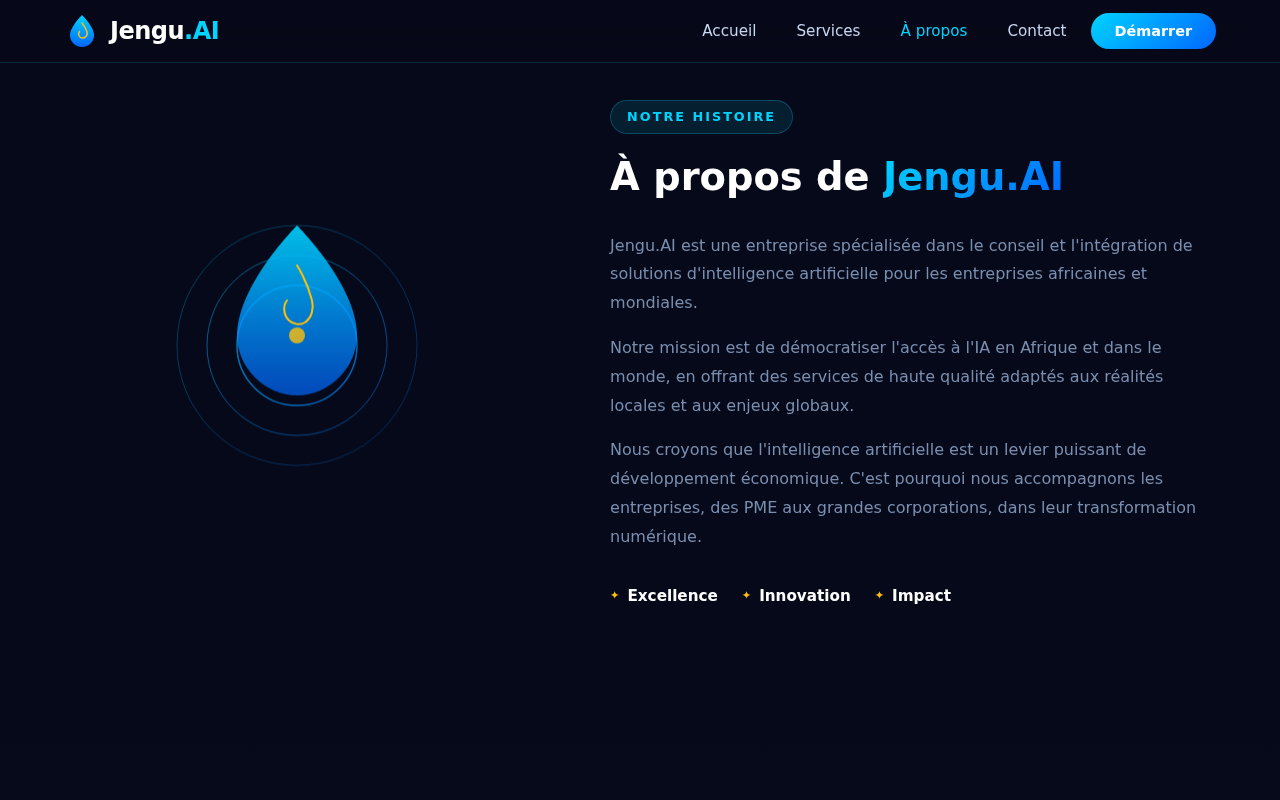
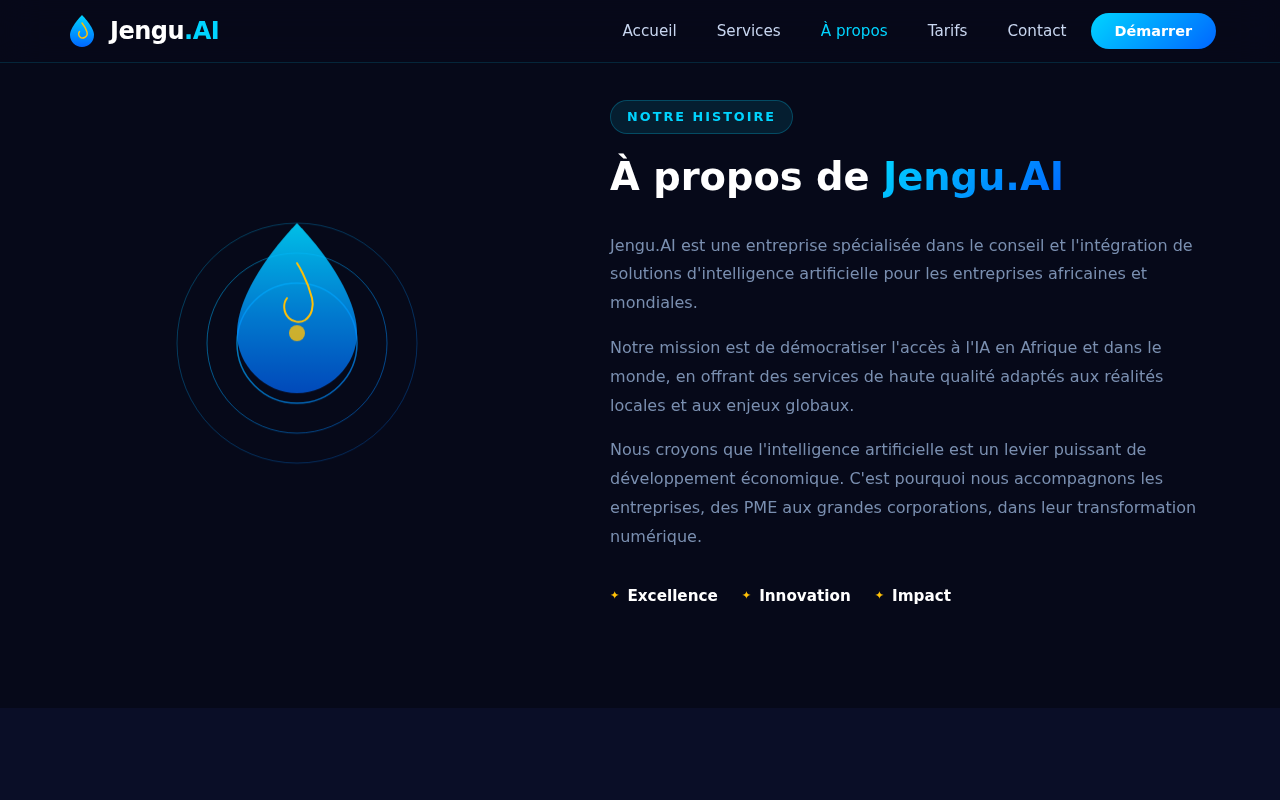
feat: add pricing, contacts Douala/Cameroun, social links & new screenshots
- Contact: Douala Cameroun, +237 672 705 729, Facebook/LinkedIn/WhatsApp
- New pricing section with 3 plans in FCFA (150k / 450k / sur devis)
- À la carte services: annotation 75k FCFA, formation 200k, etc.
- Logo image support in navbar and hero (images/logo.png)
- Tarifs link added to navbar and footer
- Updated PNG screenshots (7 sections + full page)

https://claude.ai/code/session_01H45mCt72DTZXkVPdDY7sY4

diff --git a/index.html b/index.html
@@ -13,7 +13,8 @@
   <nav class="navbar" id="navbar">
     <div class="nav-container">
       <a href="#" class="nav-logo">
-        <svg width="36" height="36" viewBox="0 0 36 36" fill="none" xmlns="http://www.w3.org/2000/svg">
+        <img src="images/logo.png" alt="Jengu.AI" class="nav-logo-img" onerror="this.style.display='none';this.nextElementSibling.style.display='inline-flex'"/>
+        <svg width="36" height="36" viewBox="0 0 36 36" fill="none" xmlns="http://www.w3.org/2000/svg" style="display:none">
           <path d="M18 2C18 2 6 14 6 22C6 28.627 11.373 34 18 34C24.627 34 30 28.627 30 22C30 14 18 2 18 2Z" fill="url(#dropGrad)"/>
           <path d="M18 10C18 10 22 15 23 19C23.5 21 22.5 23.5 20.5 24.5C19 25.3 17 25 16 24C14.5 22.5 14.5 20 15.5 18.5" stroke="#ffc107" stroke-width="1.5" stroke-linecap="round"/>
           <defs>
@@ -30,6 +31,7 @@
         <li><a href="#accueil" class="nav-link">Accueil</a></li>
         <li><a href="#services" class="nav-link">Services</a></li>
         <li><a href="#about" class="nav-link">À propos</a></li>
+        <li><a href="#tarifs" class="nav-link">Tarifs</a></li>
         <li><a href="#contact" class="nav-link">Contact</a></li>
         <li><a href="#contact" class="nav-btn">Démarrer</a></li>
       </ul>
@@ -43,6 +45,9 @@
   <!-- ===== HERO ===== -->
   <section class="hero" id="accueil">
     <canvas id="particles"></canvas>
+    <div class="hero-logo-img reveal">
+      <img src="images/logo.png" alt="Jengu.AI Logo" onerror="this.parentElement.style.display='none'"/>
+    </div>
     <div class="hero-content">
       <div class="hero-badge">🤖 Intelligence Artificielle</div>
       <h1 class="hero-title">
@@ -264,6 +269,107 @@
     </div>
   </section>
 
+  <!-- ===== TARIFS ===== -->
+  <section class="section pricing-section" id="tarifs">
+    <div class="container">
+      <div class="section-header reveal">
+        <span class="section-label">Nos offres</span>
+        <h2>Tarifs <span class="gradient-text">Transparents</span></h2>
+        <p>Des formules adaptées à chaque taille d'entreprise, en Francs CFA</p>
+      </div>
+      <div class="pricing-grid">
+
+        <div class="pricing-card reveal">
+          <div class="pricing-header">
+            <h3>Starter</h3>
+            <p>Pour les startups & TPE</p>
+            <div class="pricing-price">
+              <span class="price-amount">150 000</span>
+              <span class="price-currency">FCFA<small>/mois</small></span>
+            </div>
+          </div>
+          <ul class="pricing-features">
+            <li><span class="check">✓</span> Audit IA initial</li>
+            <li><span class="check">✓</span> 2 consultations / mois</li>
+            <li><span class="check">✓</span> Rapport de recommandations</li>
+            <li><span class="check">✓</span> Support par email</li>
+            <li class="disabled"><span>✗</span> Automatisation de processus</li>
+            <li class="disabled"><span>✗</span> Formation équipes</li>
+          </ul>
+          <a href="#contact" class="btn btn-outline btn-full">Choisir Starter</a>
+        </div>
+
+        <div class="pricing-card pricing-featured reveal">
+          <div class="pricing-badge">Populaire</div>
+          <div class="pricing-header">
+            <h3>Pro</h3>
+            <p>Pour les PME en croissance</p>
+            <div class="pricing-price">
+              <span class="price-amount">450 000</span>
+              <span class="price-currency">FCFA<small>/mois</small></span>
+            </div>
+          </div>
+          <ul class="pricing-features">
+            <li><span class="check">✓</span> Tout Starter inclus</li>
+            <li><span class="check">✓</span> Automatisation de 3 processus</li>
+            <li><span class="check">✓</span> Formation équipe (5 personnes)</li>
+            <li><span class="check">✓</span> Tableau de bord IA</li>
+            <li><span class="check">✓</span> Support prioritaire</li>
+            <li><span class="check">✓</span> 5 000 items annotés/mois</li>
+          </ul>
+          <a href="#contact" class="btn btn-primary btn-full">Choisir Pro</a>
+        </div>
+
+        <div class="pricing-card reveal">
+          <div class="pricing-header">
+            <h3>Enterprise</h3>
+            <p>Pour les grandes structures</p>
+            <div class="pricing-price">
+              <span class="price-amount">Sur devis</span>
+              <span class="price-currency"></span>
+            </div>
+          </div>
+          <ul class="pricing-features">
+            <li><span class="check">✓</span> Solutions sur mesure</li>
+            <li><span class="check">✓</span> Automatisation illimitée</li>
+            <li><span class="check">✓</span> Formation avancée complète</li>
+            <li><span class="check">✓</span> Annotation de données massive</li>
+            <li><span class="check">✓</span> Intégration système complète</li>
+            <li><span class="check">✓</span> Support 24/7 dédié</li>
+          </ul>
+          <a href="#contact" class="btn btn-outline btn-full">Nous contacter</a>
+        </div>
+
+      </div>
+
+      <div class="pricing-extras reveal">
+        <h3>Services à la carte</h3>
+        <div class="extras-grid">
+          <div class="extra-item">
+            <span class="extra-icon">📊</span>
+            <strong>Annotation de données</strong>
+            <span>à partir de 75 000 FCFA / 1 000 items</span>
+          </div>
+          <div class="extra-item">
+            <span class="extra-icon">🎓</span>
+            <strong>Formation IA</strong>
+            <span>200 000 FCFA / personne / session</span>
+          </div>
+          <div class="extra-item">
+            <span class="extra-icon">⚙</span>
+            <strong>Automatisation projet</strong>
+            <span>à partir de 500 000 FCFA / projet</span>
+          </div>
+          <div class="extra-item">
+            <span class="extra-icon">🧠</span>
+            <strong>Conseil stratégique</strong>
+            <span>100 000 FCFA / journée</span>
+          </div>
+        </div>
+      </div>
+    </div>
+  </section>
+
   <!-- ===== CONTACT ===== -->
   <section class="section contact-section" id="contact">
     <div class="container">
@@ -293,8 +399,8 @@
               </svg>
             </div>
             <div>
-              <strong>Téléphone</strong>
-              <span>+225 XX XX XX XX</span>
+              <strong>Téléphone / WhatsApp</strong>
+              <span>+237 672 705 729</span>
             </div>
           </div>
           <div class="info-item">
@@ -306,18 +412,24 @@
             </div>
             <div>
               <strong>Localisation</strong>
-              <span>Abidjan, Côte d'Ivoire</span>
+              <span>Douala, Cameroun</span>
             </div>
           </div>
           <div class="social-links">
-            <a href="#" class="social-btn" aria-label="LinkedIn">
+            <a href="https://www.linkedin.com/company/jengu-ai" target="_blank" class="social-btn" aria-label="LinkedIn">
               <svg width="20" height="20" viewBox="0 0 24 24" fill="currentColor">
                 <path d="M16 8a6 6 0 016 6v7h-4v-7a2 2 0 00-2-2 2 2 0 00-2 2v7h-4v-7a6 6 0 016-6zM2 9h4v12H2z"/><circle cx="4" cy="4" r="2"/>
               </svg>
             </a>
-            <a href="#" class="social-btn" aria-label="Twitter">
+            <a href="https://www.facebook.com/JenguAI" target="_blank" class="social-btn" aria-label="Facebook">
               <svg width="20" height="20" viewBox="0 0 24 24" fill="currentColor">
-                <path d="M23 3a10.9 10.9 0 01-3.14 1.53 4.48 4.48 0 00-7.86 3v1A10.66 10.66 0 013 4s-4 9 5 13a11.64 11.64 0 01-7 2c9 5 20 0 20-11.5a4.5 4.5 0 00-.08-.83A7.72 7.72 0 0023 3z"/>
+                <path d="M18 2h-3a5 5 0 00-5 5v3H7v4h3v8h4v-8h3l1-4h-4V7a1 1 0 011-1h3z"/>
+              </svg>
+            </a>
+            <a href="https://wa.me/237672705729" target="_blank" class="social-btn" aria-label="WhatsApp">
+              <svg width="20" height="20" viewBox="0 0 24 24" fill="currentColor">
+                <path d="M17.472 14.382c-.297-.149-1.758-.867-2.03-.967-.273-.099-.471-.148-.67.15-.197.297-.767.966-.94 1.164-.173.199-.347.223-.644.075-.297-.15-1.255-.463-2.39-1.475-.883-.788-1.48-1.761-1.653-2.059-.173-.297-.018-.458.13-.606.134-.133.298-.347.446-.52.149-.174.198-.298.298-.497.099-.198.05-.371-.025-.52-.075-.149-.669-1.612-.916-2.207-.242-.579-.487-.5-.669-.51-.173-.008-.371-.01-.57-.01-.198 0-.52.074-.792.372-.272.297-1.04 1.016-1.04 2.479 0 1.462 1.065 2.875 1.213 3.074.149.198 2.096 3.2 5.077 4.487.709.306 1.262.489 1.694.625.712.227 1.36.195 1.871.118.571-.085 1.758-.719 2.006-1.413.248-.694.248-1.289.173-1.413-.074-.124-.272-.198-.57-.347z"/>
+                <path d="M12 0C5.373 0 0 5.373 0 12c0 2.125.557 4.126 1.524 5.855L.057 23.8l6.103-1.438A11.938 11.938 0 0012 24c6.627 0 12-5.373 12-12S18.627 0 12 0zm0 22c-1.885 0-3.65-.52-5.163-1.424l-.371-.22-3.623.853.881-3.53-.239-.384A9.96 9.96 0 012 12C2 6.477 6.477 2 12 2s10 4.477 10 10-4.477 10-10 10z"/>
               </svg>
             </a>
           </div>
@@ -406,7 +518,27 @@
         <h4>Entreprise</h4>
         <ul>
           <li><a href="#about">À propos</a></li>
+          <li><a href="#tarifs">Tarifs</a></li>
           <li><a href="#contact">Contact</a></li>
+        </ul>
+      </div>
+      <div class="footer-links">
+        <h4>Contact</h4>
+        <ul>
+          <li><a href="tel:+237672705729">+237 672 705 729</a></li>
+          <li><a href="mailto:contact@jengu.ai">contact@jengu.ai</a></li>
+          <li><span style="color:var(--text-dim)">Douala, Cameroun</span></li>
+          <li style="display:flex;gap:10px;margin-top:12px">
+            <a href="https://www.facebook.com/JenguAI" target="_blank" class="social-btn" aria-label="Facebook">
+              <svg width="18" height="18" viewBox="0 0 24 24" fill="currentColor"><path d="M18 2h-3a5 5 0 00-5 5v3H7v4h3v8h4v-8h3l1-4h-4V7a1 1 0 011-1h3z"/></svg>
+            </a>
+            <a href="https://www.linkedin.com/company/jengu-ai" target="_blank" class="social-btn" aria-label="LinkedIn">
+              <svg width="18" height="18" viewBox="0 0 24 24" fill="currentColor"><path d="M16 8a6 6 0 016 6v7h-4v-7a2 2 0 00-4 0v7h-4v-7a6 6 0 016-6zM2 9h4v12H2z"/><circle cx="4" cy="4" r="2"/></svg>
+            </a>
+            <a href="https://wa.me/237672705729" target="_blank" class="social-btn" aria-label="WhatsApp">
+              <svg width="18" height="18" viewBox="0 0 24 24" fill="currentColor"><path d="M17.472 14.382c-.297-.149-1.758-.867-2.03-.967-.273-.099-.471-.148-.67.15-.197.297-.767.966-.94 1.164-.173.199-.347.223-.644.075-.297-.15-1.255-.463-2.39-1.475-.883-.788-1.48-1.761-1.653-2.059-.173-.297-.018-.458.13-.606.134-.133.298-.347.446-.52.149-.174.198-.298.298-.497.099-.198.05-.371-.025-.52-.075-.149-.669-1.612-.916-2.207-.242-.579-.487-.5-.669-.51-.173-.008-.371-.01-.57-.01-.198 0-.52.074-.792.372-.272.297-1.04 1.016-1.04 2.479 0 1.462 1.065 2.875 1.213 3.074.149.198 2.096 3.2 5.077 4.487.709.306 1.262.489 1.694.625.712.227 1.36.195 1.871.118.571-.085 1.758-.719 2.006-1.413.248-.694.248-1.289.173-1.413z"/><path d="M12 0C5.373 0 0 5.373 0 12c0 2.125.557 4.126 1.524 5.855L.057 23.8l6.103-1.438A11.938 11.938 0 0012 24c6.627 0 12-5.373 12-12S18.627 0 12 0zm0 22c-1.885 0-3.65-.52-5.163-1.424l-.371-.22-3.623.853.881-3.53-.239-.384A9.96 9.96 0 012 12C2 6.477 6.477 2 12 2s10 4.477 10 10-4.477 10-10 10z"/></svg>
+            </a>
+          </li>
         </ul>
       </div>
     </div>

diff --git a/css/style.css b/css/style.css
@@ -695,3 +695,160 @@ ul { list-style: none; }
   .stats-grid { grid-template-columns: 1fr 1fr; }
   .hstat-sep { display: none; }
 }
+
+/* ---- NAV LOGO IMAGE ---- */
+.nav-logo-img {
+  height: 36px;
+  width: auto;
+  object-fit: contain;
+  border-radius: 6px;
+}
+
+/* ---- HERO LOGO ---- */
+.hero-logo-img {
+  position: relative;
+  z-index: 2;
+  text-align: center;
+  margin-bottom: 8px;
+}
+.hero-logo-img img {
+  width: 200px;
+  height: auto;
+  margin: 0 auto;
+  filter: drop-shadow(0 0 30px rgba(0,212,255,0.4));
+  animation: float 4s ease-in-out infinite;
+}
+
+/* ---- PRICING SECTION ---- */
+.pricing-section { background: var(--bg-navy); }
+
+.pricing-grid {
+  display: grid;
+  grid-template-columns: repeat(3, 1fr);
+  gap: 28px;
+  margin-bottom: 64px;
+}
+
+.pricing-card {
+  position: relative;
+  background: var(--bg-card);
+  border: 1px solid var(--border);
+  border-radius: var(--radius);
+  padding: 40px 32px;
+  transition: all 0.4s ease;
+  backdrop-filter: blur(10px);
+  display: flex;
+  flex-direction: column;
+}
+.pricing-card:hover {
+  border-color: rgba(0, 212, 255, 0.4);
+  transform: translateY(-6px);
+  box-shadow: 0 20px 60px rgba(0, 212, 255, 0.12);
+}
+.pricing-featured {
+  border-color: var(--cyan);
+  background: linear-gradient(135deg, rgba(0,102,255,0.15), rgba(0,212,255,0.08));
+  box-shadow: 0 0 40px rgba(0,212,255,0.15);
+  transform: scale(1.03);
+}
+.pricing-featured:hover { transform: scale(1.03) translateY(-6px); }
+
+.pricing-badge {
+  position: absolute;
+  top: -14px;
+  left: 50%;
+  transform: translateX(-50%);
+  background: linear-gradient(135deg, var(--cyan), var(--blue));
+  color: var(--white);
+  font-size: 0.78rem;
+  font-weight: 700;
+  padding: 5px 18px;
+  border-radius: 50px;
+  letter-spacing: 1px;
+  text-transform: uppercase;
+}
+
+.pricing-header { margin-bottom: 28px; }
+.pricing-header h3 { font-size: 1.4rem; font-weight: 700; color: var(--white); margin-bottom: 6px; }
+.pricing-header p { color: var(--text-dim); font-size: 0.9rem; margin-bottom: 20px; }
+
+.pricing-price {
+  display: flex;
+  align-items: flex-end;
+  gap: 6px;
+}
+.price-amount {
+  font-size: clamp(1.6rem, 3vw, 2.4rem);
+  font-weight: 800;
+  color: var(--cyan);
+  line-height: 1;
+}
+.price-currency {
+  color: var(--text-dim);
+  font-size: 0.85rem;
+  font-weight: 600;
+  padding-bottom: 4px;
+}
+.price-currency small { display: block; font-size: 0.8rem; color: var(--text-dim); }
+
+.pricing-features {
+  list-style: none;
+  flex: 1;
+  margin-bottom: 28px;
+}
+.pricing-features li {
+  display: flex;
+  align-items: center;
+  gap: 10px;
+  padding: 9px 0;
+  border-bottom: 1px solid rgba(255,255,255,0.05);
+  font-size: 0.9rem;
+  color: var(--text);
+}
+.pricing-features li.disabled { color: var(--text-dim); opacity: 0.5; }
+.check { color: var(--cyan); font-weight: 700; font-size: 0.85rem; }
+.pricing-features li.disabled span { color: #ff4d6d; }
+
+/* ---- PRICING EXTRAS ---- */
+.pricing-extras {
+  background: rgba(13, 27, 75, 0.4);
+  border: 1px solid var(--border);
+  border-radius: var(--radius);
+  padding: 40px;
+}
+.pricing-extras h3 {
+  text-align: center;
+  font-size: 1.3rem;
+  color: var(--white);
+  margin-bottom: 32px;
+}
+.extras-grid {
+  display: grid;
+  grid-template-columns: repeat(4, 1fr);
+  gap: 24px;
+}
+.extra-item {
+  text-align: center;
+  padding: 20px 16px;
+  background: rgba(6, 9, 25, 0.4);
+  border: 1px solid var(--border);
+  border-radius: 12px;
+  transition: all 0.3s;
+}
+.extra-item:hover { border-color: var(--gold); transform: translateY(-3px); }
+.extra-icon { font-size: 2rem; display: block; margin-bottom: 10px; }
+.extra-item strong { display: block; color: var(--white); font-size: 0.9rem; margin-bottom: 6px; }
+.extra-item span { color: var(--cyan); font-size: 0.8rem; font-weight: 600; }
+
+/* ---- RESPONSIVE PRICING ---- */
+@media (max-width: 1024px) {
+  .pricing-grid { grid-template-columns: 1fr; max-width: 480px; margin-left: auto; margin-right: auto; }
+  .pricing-featured { transform: scale(1); }
+  .pricing-featured:hover { transform: translateY(-6px); }
+  .extras-grid { grid-template-columns: repeat(2, 1fr); }
+}
+@media (max-width: 600px) {
+  .extras-grid { grid-template-columns: 1fr; }
+  .pricing-extras { padding: 24px 16px; }
+  .footer-content { grid-template-columns: 1fr; }
+}
